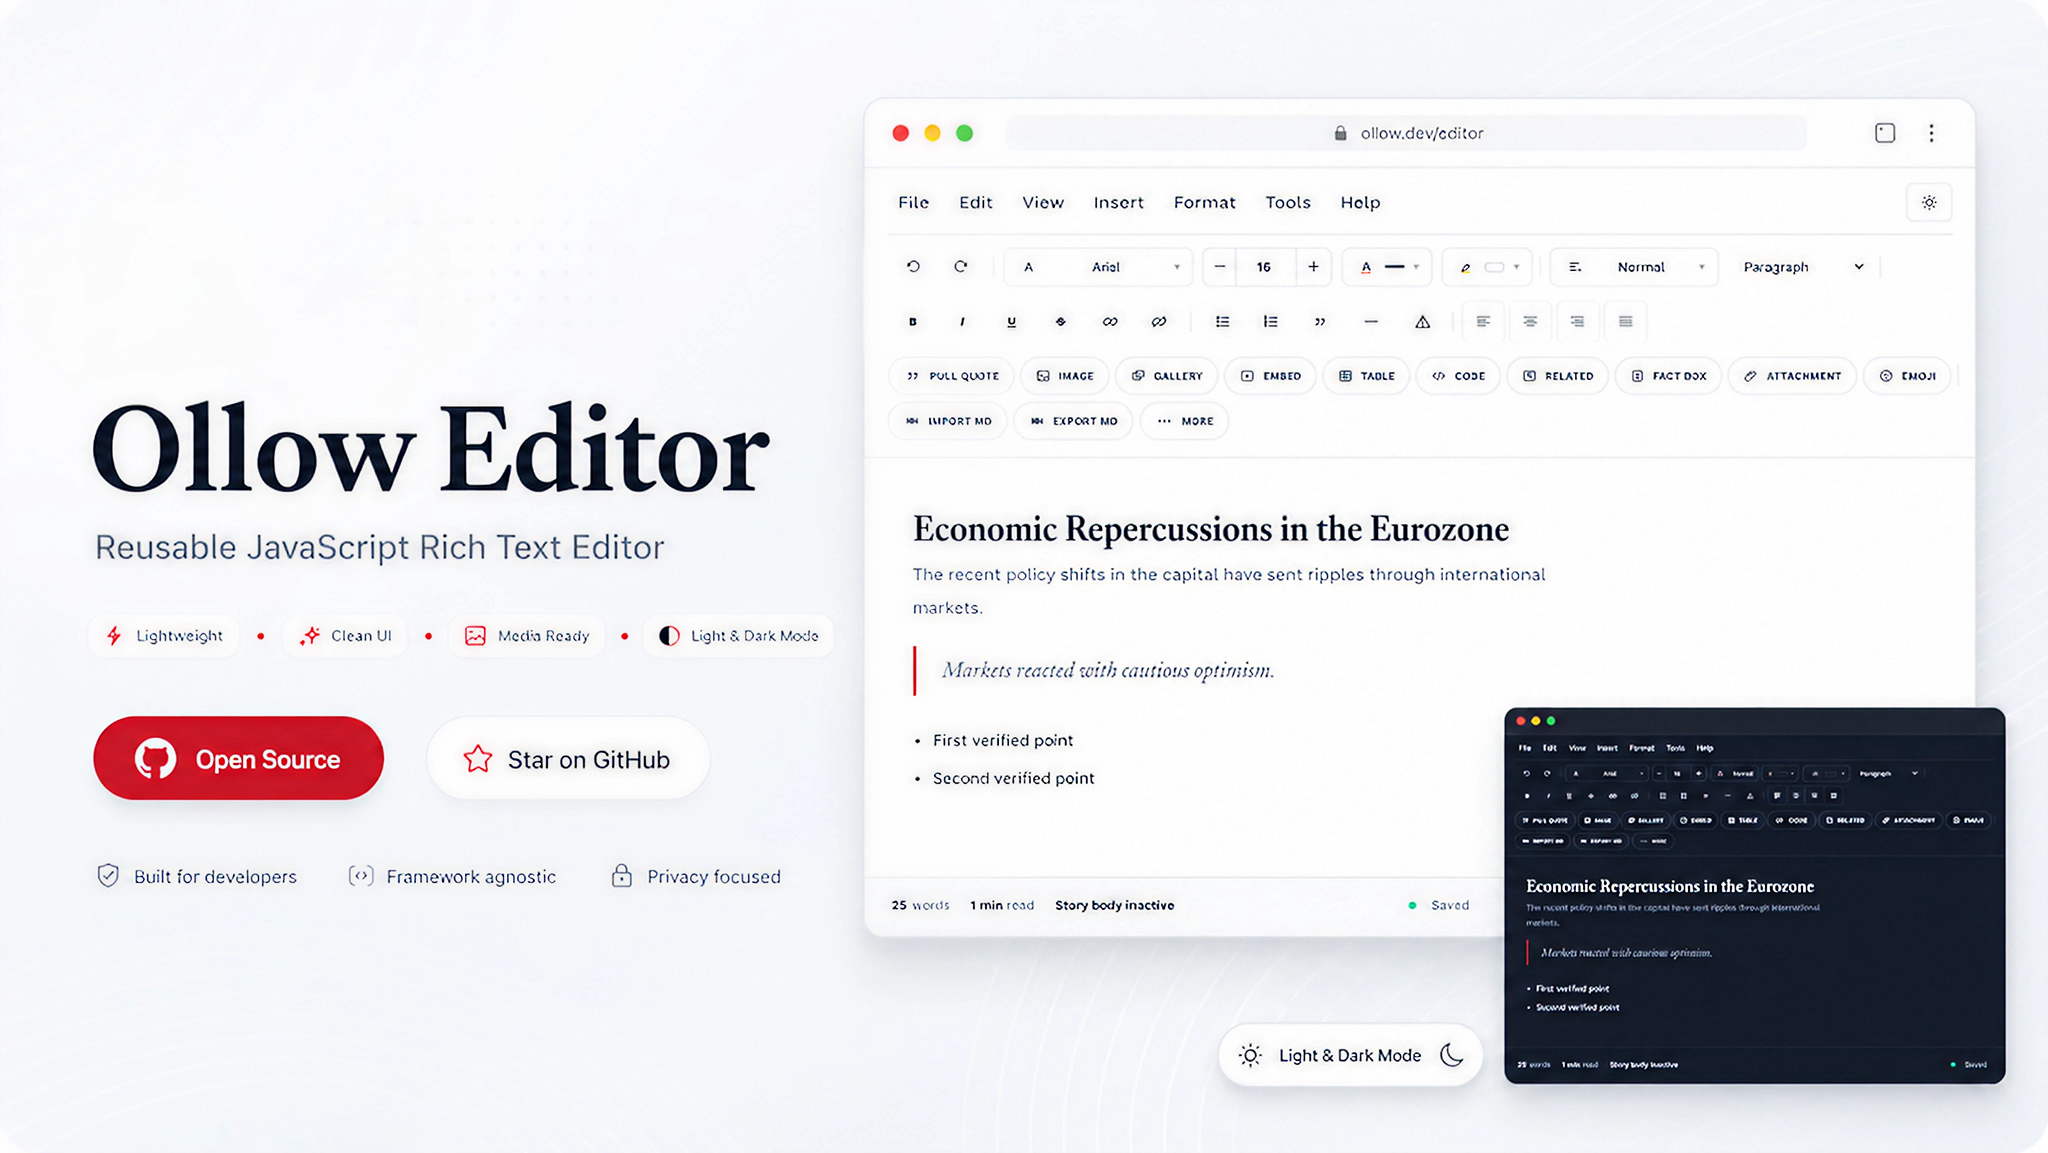
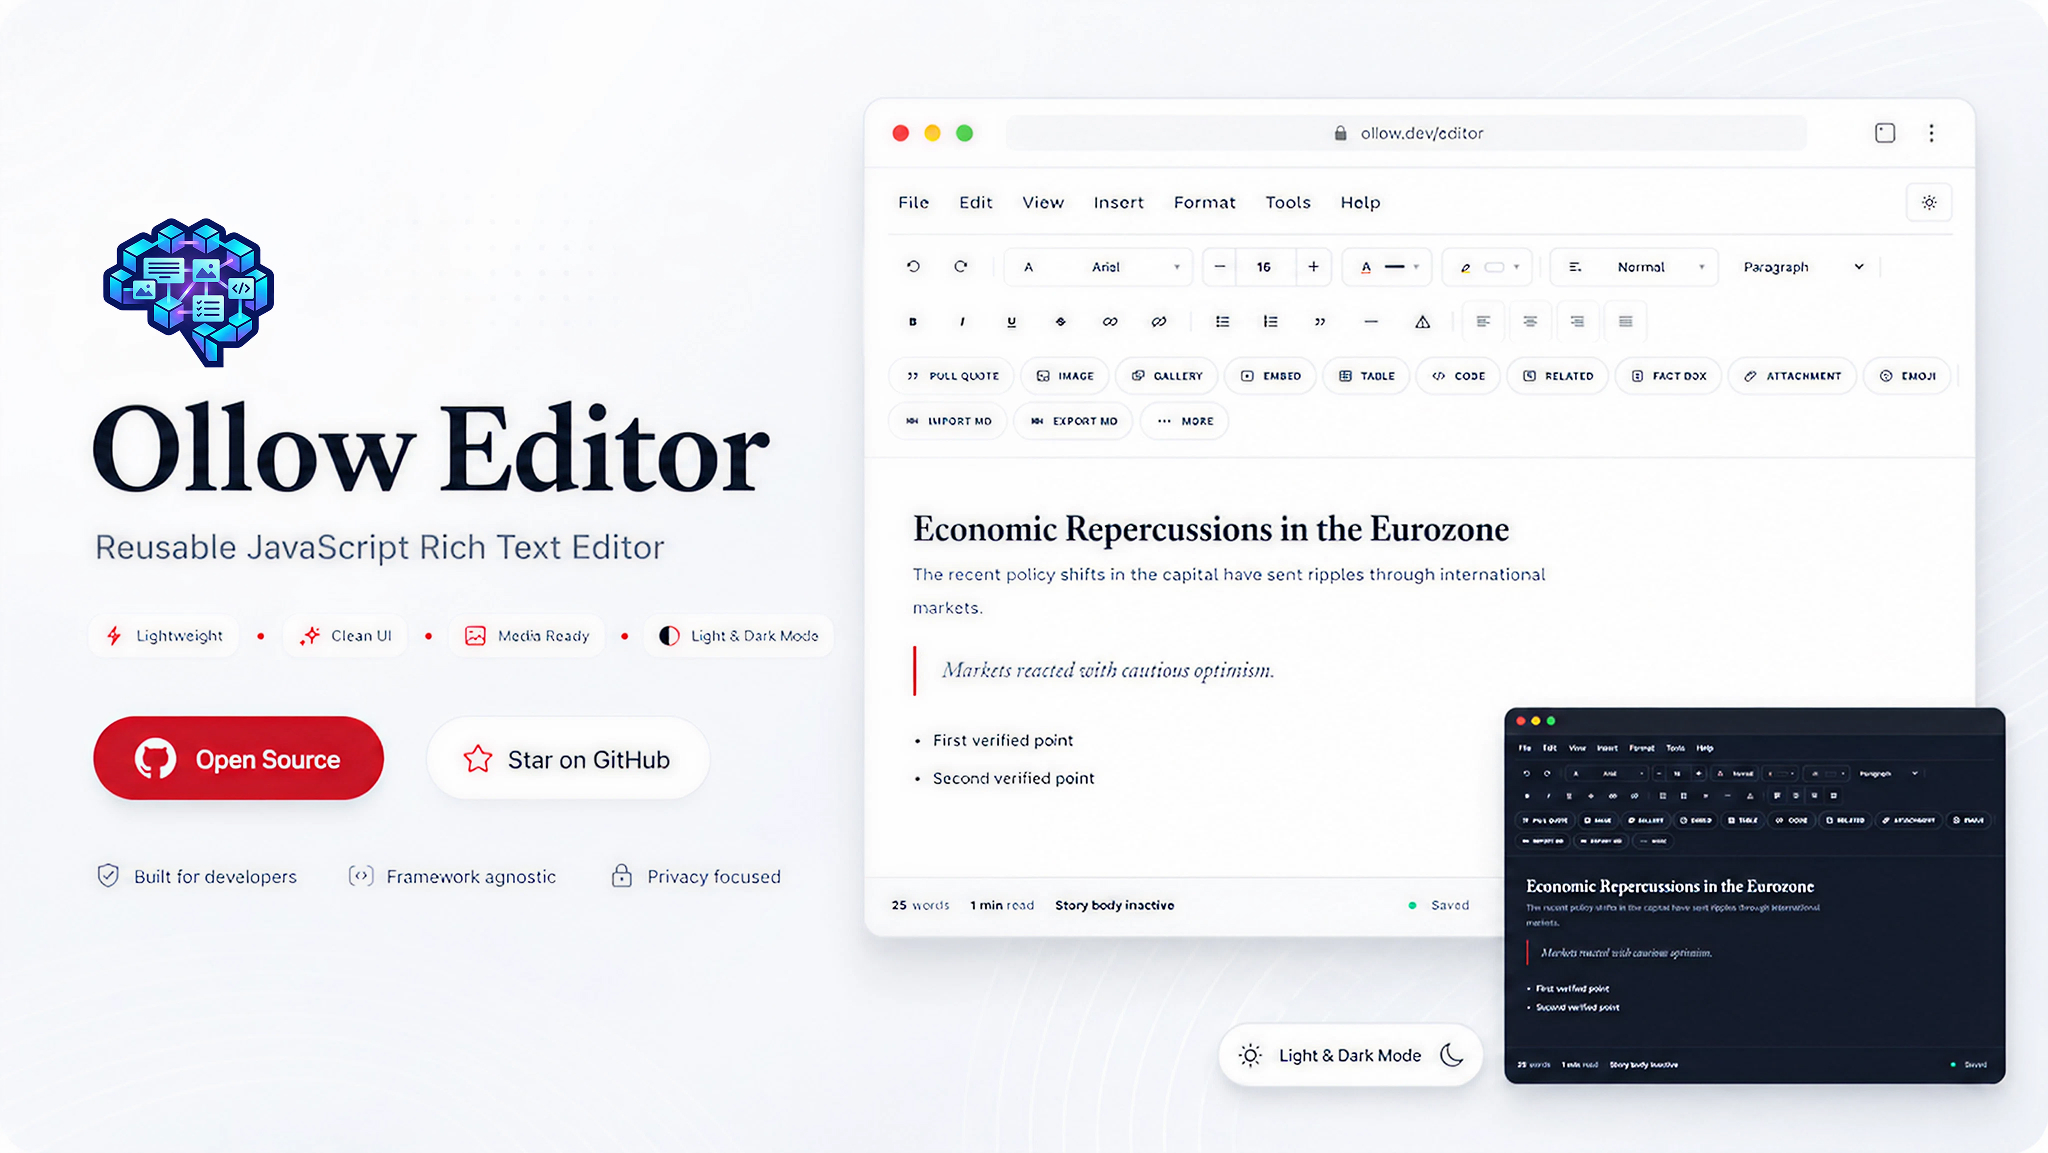
Add final Python release audit

Changed region(s): [[0.0312, 0.1873, 0.1562, 0.3122]]

diff --git a/website/index.html b/website/index.html
@@ -33,7 +33,7 @@
         </button>
         <nav class="site-nav" id="site-nav" aria-label="Primary">
           <a href="./documentation.html">Documentation</a>
-          <a class="nav-button" href="https://github.com/CodeFortifyCloud/olloweditor" target="_blank" rel="noopener noreferrer">Github</a>
+          <a class="nav-button" href="https://github.com/jakiiii/olloweditor" target="_blank" rel="noopener noreferrer">Github</a>
         </nav>
       </div>
     </header>
@@ -50,7 +50,7 @@
             </p>
             <div class="hero-actions">
               <a class="primary-button" href="#editor-demo">Get Started</a>
-              <a class="secondary-button" href="https://github.com/CodeFortifyCloud/olloweditor" target="_blank" rel="noopener noreferrer">View Github</a>
+              <a class="secondary-button" href="https://github.com/jakiiii/olloweditor" target="_blank" rel="noopener noreferrer">View Github</a>
             </div>
           </div>
         </div>
@@ -289,7 +289,7 @@ export default function App() {
             </p>
             <div class="hero-actions">
               <a class="primary-button" href="./documentation.html">Read Documentation</a>
-              <a class="secondary-button" href="https://github.com/CodeFortifyCloud/olloweditor" target="_blank" rel="noopener noreferrer">View on Github</a>
+              <a class="secondary-button" href="https://github.com/jakiiii/olloweditor" target="_blank" rel="noopener noreferrer">View on Github</a>
             </div>
           </div>
         </div>
@@ -303,7 +303,7 @@ export default function App() {
         </div>
         <nav class="footer-nav" aria-label="Footer">
           <a href="./documentation.html">Documentation</a>
-          <a href="https://github.com/CodeFortifyCloud/olloweditor" target="_blank" rel="noopener noreferrer">Github</a>
+          <a href="https://github.com/jakiiii/olloweditor" target="_blank" rel="noopener noreferrer">Github</a>
           <a href="#contact">Contact us</a>
         </nav>
       </div>

diff --git a/website/documentation.html b/website/documentation.html
@@ -30,7 +30,7 @@
         </button>
         <nav class="site-nav" id="site-nav" aria-label="Primary">
           <a class="site-nav-link-active" href="./documentation.html" aria-current="page">Documentation</a>
-          <a class="nav-button" href="https://github.com/CodeFortifyCloud/olloweditor" target="_blank" rel="noopener noreferrer">Github</a>
+          <a class="nav-button" href="https://github.com/jakiiii/olloweditor" target="_blank" rel="noopener noreferrer">Github</a>
         </nav>
       </div>
     </header>
@@ -783,7 +783,7 @@ export class UploadController {
                   <span>local dev</span>
                   <button class="docs-copy-btn" type="button" data-copy-target="#local-dev-code">Copy</button>
                 </div>
-                <pre class="docs-code" id="local-dev-code"><code>git clone https://github.com/CodeFortifyCloud/olloweditor.git
+                <pre class="docs-code" id="local-dev-code"><code>git clone https://github.com/jakiiii/olloweditor.git
 cd olloweditor
 npm install
 npm run dev</code></pre>

diff --git a/python/RELEASE_AUDIT.md b/python/RELEASE_AUDIT.md
@@ -1,0 +1,244 @@
+# OllowEditor Python Release Audit
+
+- Release version: `0.1.0`
+- Date: `2026-07-10`
+- Git commit audited: release-audit commit in repository history
+- Final recommendation: `GO — Ready for TestPyPI`
+
+## Commands run
+
+From repository root:
+
+```bash
+npm ci
+npm run build
+npm run typecheck
+npm run build:python-assets
+npm run verify:python-assets
+npm test
+```
+
+From `python/` after recreating a clean virtual environment:
+
+```bash
+rm -rf .venv build dist src/*.egg-info
+python3 -m venv .venv
+source .venv/bin/activate
+python -m pip install --upgrade pip
+python -m pip install -e ".[dev,test,all]"
+python -m pytest --cov=olloweditor
+python -m ruff check .
+python -m ruff format --check .
+python -m mypy src
+python -m build
+python -m twine check dist/*
+python scripts/check_wheel_contents.py dist/*.whl
+python scripts/verify_wheel_installs.py dist/*.whl
+python scripts/validate_publish_release.py --release-tag v0.1.0 --skip-git-check
+python scripts/check_pypi_status.py olloweditor 0.1.0
+```
+
+Additional audit-only smoke checks:
+
+```bash
+python - <<'PY'
+# clean-wheel runtime smoke checks for:
+# base, django, drf, flask, fastapi, all
+PY
+```
+
+## Test results
+
+- Frontend build: passed
+- Frontend typecheck: passed
+- Frontend browser tests: `13 passed`
+- Python test suite: `79 passed`
+- Ruff: passed
+- Formatting check: passed
+- mypy: passed
+- Twine metadata check: passed
+- Wheel contents check: passed
+- Source distribution inspection: passed
+- Clean wheel installs: passed for base, django, drf, flask, fastapi, all
+- Example smoke tests: passed through `tests/test_examples.py`
+
+## Coverage
+
+- Total coverage: `86.73%`
+- Threshold: `85%`
+- Status: passed
+
+Observed non-blocking warning:
+
+- FastAPI test suite emits `StarletteDeprecationWarning` about `starlette.testclient` and `httpx`
+- A clean `olloweditor[fastapi]` runtime environment does not include `httpx2`, so `TestClient` is not available there by default
+- This is not a runtime integration failure because `httpx`/`httpx2` are test-only concerns and are provided by the test dependency set, not the FastAPI runtime extra
+
+## Build artifacts
+
+Frontend outputs:
+
+- `dist/olloweditor.browser.js`
+- `dist/olloweditor.css`
+- existing npm outputs also present:
+  - `dist/olloweditor.es.js`
+  - `dist/olloweditor.cjs`
+  - `dist/olloweditor-react.es.js`
+  - `dist/olloweditor-react.cjs`
+  - `dist/index.d.ts`
+  - `dist/react.d.ts`
+
+Python distributions:
+
+- `python/dist/olloweditor-0.1.0-py3-none-any.whl`
+- `python/dist/olloweditor-0.1.0.tar.gz`
+
+## Wheel contents
+
+Verified required packaged assets:
+
+- `olloweditor/static/olloweditor/olloweditor.browser.js`
+- `olloweditor/static/olloweditor/olloweditor.css`
+- `olloweditor/static/olloweditor/olloweditor-init.js`
+- `olloweditor/static/olloweditor/.asset-manifest.json`
+- `olloweditor/static/olloweditor/GENERATED.txt`
+
+Sizes observed:
+
+- `olloweditor.browser.js`: `476412` bytes
+- `olloweditor.css`: `82883` bytes
+- `olloweditor-init.js`: `4752` bytes
+
+Source distribution inspection also confirmed these assets are included.
+
+## Clean installation results
+
+Base wheel install:
+
+- `import olloweditor`: passed
+- packaged assets resolved through `olloweditor.resources`: passed
+- unnecessary frameworks absent:
+  - `django`
+  - `rest_framework`
+  - `flask`
+  - `fastapi`
+
+Extra installs:
+
+- `olloweditor[django]`: import and widget render smoke test passed
+- `olloweditor[drf]`: import and serializer field validation smoke test passed
+- `olloweditor[flask]`: import, blueprint asset response, and Jinja helper smoke test passed
+- `olloweditor[fastapi]`: import, mount registration, and asset helper smoke test passed
+- `olloweditor[all]`: combined import and helper smoke test passed
+
+## Framework smoke-test results
+
+Django:
+
+- widget media includes required assets
+- model/admin integration covered by test suite
+- example routes and staticfiles path smoke-tested
+
+DRF:
+
+- HTML field validation covered
+- serializer usage covered
+- example API create/list path smoke-tested
+
+Flask:
+
+- extension init patterns covered
+- asset blueprint response covered
+- example form flow smoke-tested
+
+FastAPI:
+
+- mount helper and asset tags covered
+- example routes smoke-tested
+- runtime extra is valid without bundling test-only client dependencies
+
+## Security review
+
+Reviewed for accidental secrets and unsafe defaults.
+
+Findings:
+
+- no PyPI tokens, API tokens, private keys, or GitHub tokens found in tracked files
+- example Django and Flask apps contain explicit non-production placeholder secrets only
+- no committed virtual environments or cache directories are tracked
+- no source maps are tracked or shipped
+- no automatic server-side HTML trust was found in Django, DRF, Flask, or FastAPI integrations
+- documentation consistently warns that untrusted HTML must be sanitized before rendering
+- Flask and FastAPI helpers use controlled `Markup` only for library-generated HTML, not arbitrary user content
+- path traversal protections in `resources.py` remain covered by tests
+
+## Documentation review
+
+Reviewed:
+
+- `python/README.md`
+- `python/docs/*.md`
+- framework example READMEs
+- website links that point back to the repository
+
+Findings:
+
+- install commands match implemented extras
+- framework examples align with actual integration APIs
+- security guidance is present across README, docs, and examples
+- unsupported feature claims were not found in the Python docs set reviewed
+- repository URLs were inconsistent before the audit and were corrected to the actual repository owner `jakiiii`
+- no `Flast` typo found
+
+## CI status
+
+Current workflows present:
+
+- `.github/workflows/python-ci.yml`
+- `.github/workflows/publish-python.yml`
+
+Verified behavior:
+
+- CI covers frontend build, browser bundle tests, Python tests, example smoke tests, asset verification, wheel build, and install isolation
+- Trusted Publishing workflow requires:
+  - a published GitHub release
+  - successful build job completion
+  - protected `pypi` environment approval if configured
+  - PyPI OIDC trusted publisher configuration
+
+## Publishing readiness
+
+Version and index checks:
+
+- `python/pyproject.toml` version: `0.1.0`
+- `package.json` version: `0.1.0`
+- release tag validation script accepts `v0.1.0`
+- PyPI status: package name available, version not published
+- TestPyPI status: package name available, version not published
+
+Trusted Publishing prerequisites still manual:
+
+- configure PyPI trusted publisher for:
+  - owner: `jakiiii`
+  - repository: `olloweditor`
+  - workflow: `.github/workflows/publish-python.yml`
+  - environment: `pypi`
+- create and protect the GitHub `pypi` environment
+
+## Blockers
+
+None found.
+
+## In-scope fixes made during audit
+
+- corrected repository URLs in:
+  - `package.json`
+  - `python/pyproject.toml`
+  - `python/README.md`
+  - `website/index.html`
+  - `website/documentation.html`
+- refreshed `python/src/olloweditor/static/olloweditor/.asset-manifest.json` during asset rebuild
+
+## Go/No-Go
+
+`GO — Ready for TestPyPI`

diff --git a/python/README.md b/python/README.md
@@ -1,6 +1,6 @@
 # olloweditor
 
-[![Python CI](https://github.com/CodeFortifyCloud/olloweditor/actions/workflows/python-ci.yml/badge.svg)](https://github.com/CodeFortifyCloud/olloweditor/actions/workflows/python-ci.yml)
+[![Python CI](https://github.com/jakiiii/olloweditor/actions/workflows/python-ci.yml/badge.svg)](https://github.com/jakiiii/olloweditor/actions/workflows/python-ci.yml)
 
 `olloweditor` packages the OllowEditor browser build for Python applications and adds framework integrations for Django, Django REST Framework, Flask, and FastAPI.
 
@@ -8,11 +8,11 @@ It does not reimplement the editor in Python. The package ships the compiled Jav
 
 ## Links
 
-- Main OllowEditor project: <https://github.com/CodeFortifyCloud/olloweditor>
-- Python documentation: <https://github.com/CodeFortifyCloud/olloweditor/tree/main/python>
+- Main OllowEditor project: <https://github.com/jakiiii/olloweditor>
+- Python documentation: <https://github.com/jakiiii/olloweditor/tree/main/python>
 - npm package: <https://www.npmjs.com/package/@codefortify/olloweditor>
-- GitHub repository: <https://github.com/CodeFortifyCloud/olloweditor>
-- Issue tracker: <https://github.com/CodeFortifyCloud/olloweditor/issues>
+- GitHub repository: <https://github.com/jakiiii/olloweditor>
+- Issue tracker: <https://github.com/jakiiii/olloweditor/issues>
 
 ## Features
 